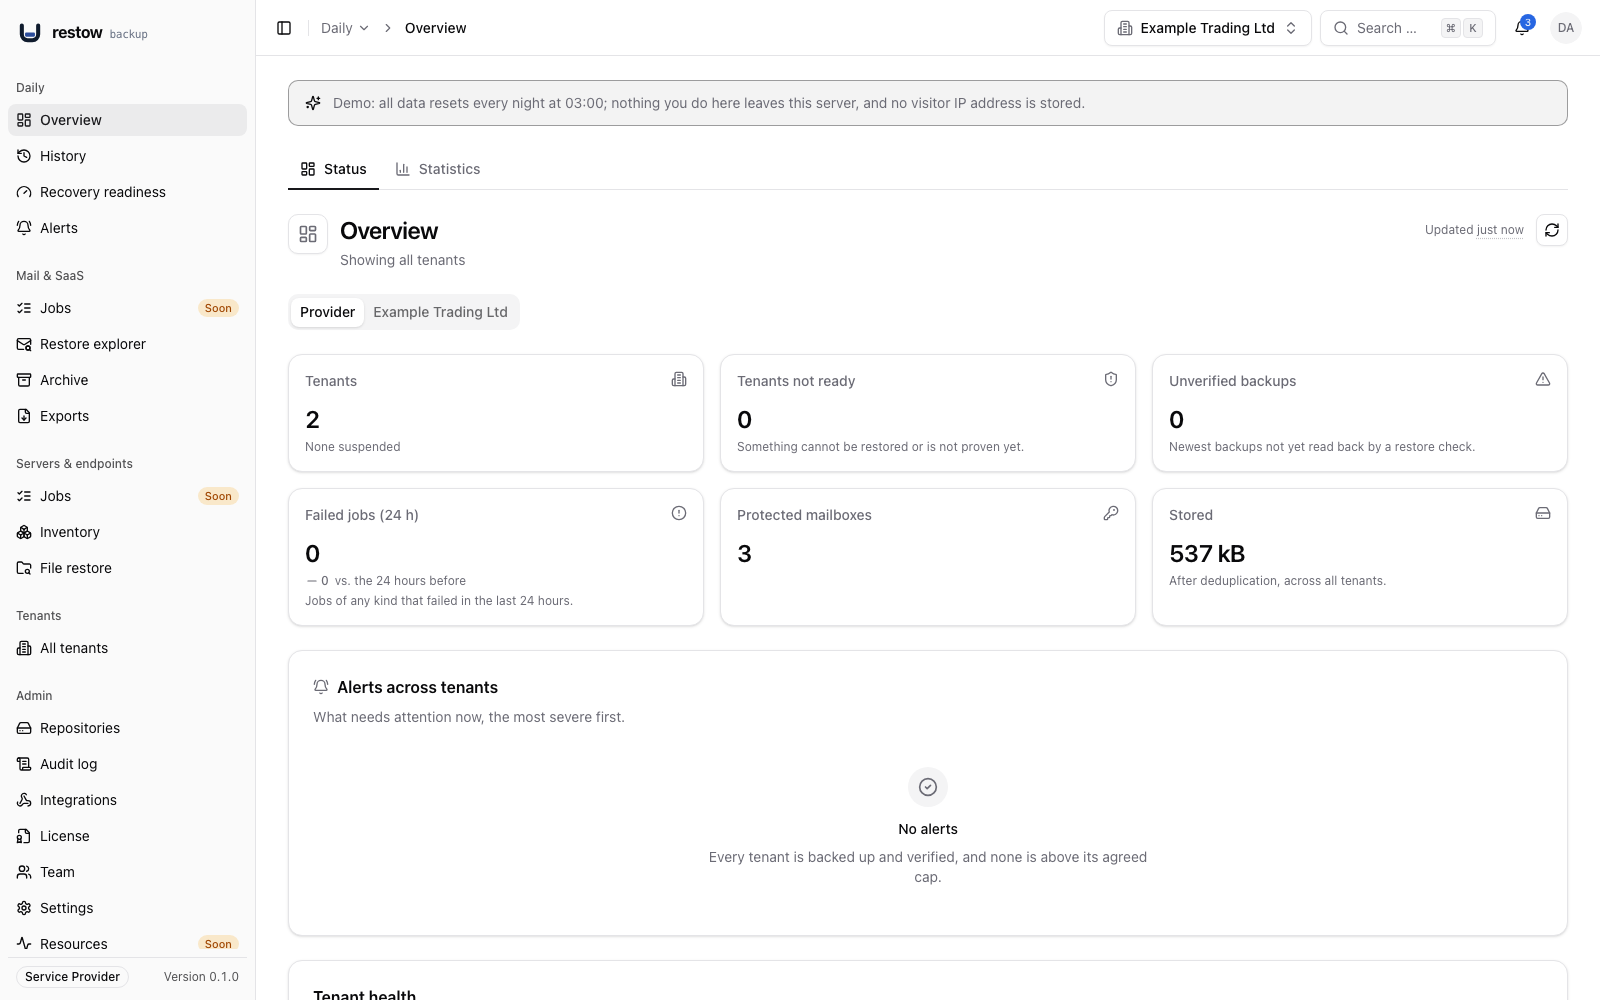
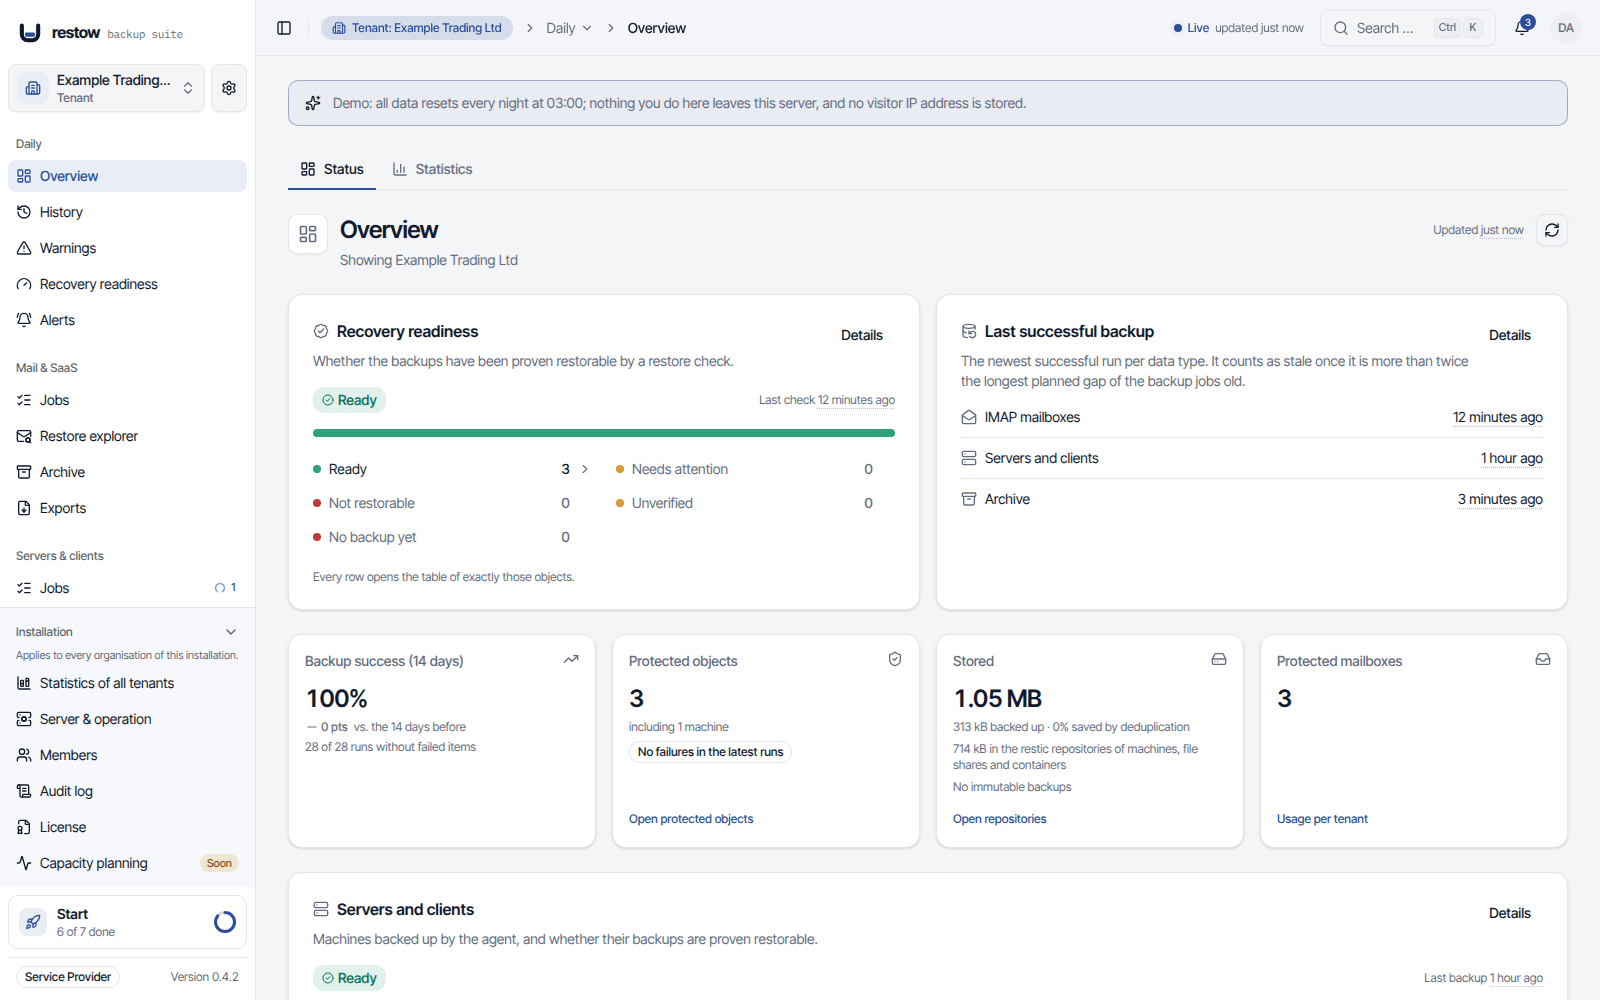
Screenshots auf den Stand von 0.4.2 bringen
Die sieben README-Screenshots stammen noch aus 0.1.0. Neu aufgenommen
aus dem Demo-Stack von 0.4.2 (synthetische Daten, Mandant Example
Trading Ltd, 1600 x 1000, helles Theme), dazu zwei neue Ansichten:
das Mail-Archiv und ein Server unter Server & Clients.

Alle Bilder sind auf 256 Farben quantisiert und verlustfrei
nachoptimiert.

diff --git a/README.md b/README.md
@@ -20,7 +20,7 @@ Known Issues.
 [Live demo](https://demo.restowbackup.com) · [Changelog](CHANGELOG.md) ·
 [Updating](docs/UPDATING.md)
 
-![Overview across all tenants](docs/images/screenshots/overview.png)
+![Overview of a tenant](docs/images/screenshots/overview.png)
 
 ## What it does
 
@@ -134,6 +134,8 @@ From the public demo, which runs the Service Provider edition with synthetic dat
 | Overview, Statistics tab: backups, restores, storage growth and checks over 30 days. | Audit log (Business and Service Provider): who did what, when, for whom; the chain is verifiable. |
 | ![Alerts](docs/images/screenshots/alerts-and-reports.png) | ![Team](docs/images/screenshots/team.png) |
 | Alerts: who is told what, and when, by e-mail, bell or webhook, and scheduled reports. | Members: several administrators with roles in every edition and, with Service Provider, limited to chosen tenants. |
+| ![Mail archive](docs/images/screenshots/mail-archive.png) | ![Machine](docs/images/screenshots/machine.png) |
+| Archive: search and read archived mail, verify the hash chain, download the original message. | Servers & clients: a machine backed up by the agent, its runs and the restore checks on the machine. |
 
 ## How Restow is built
 
